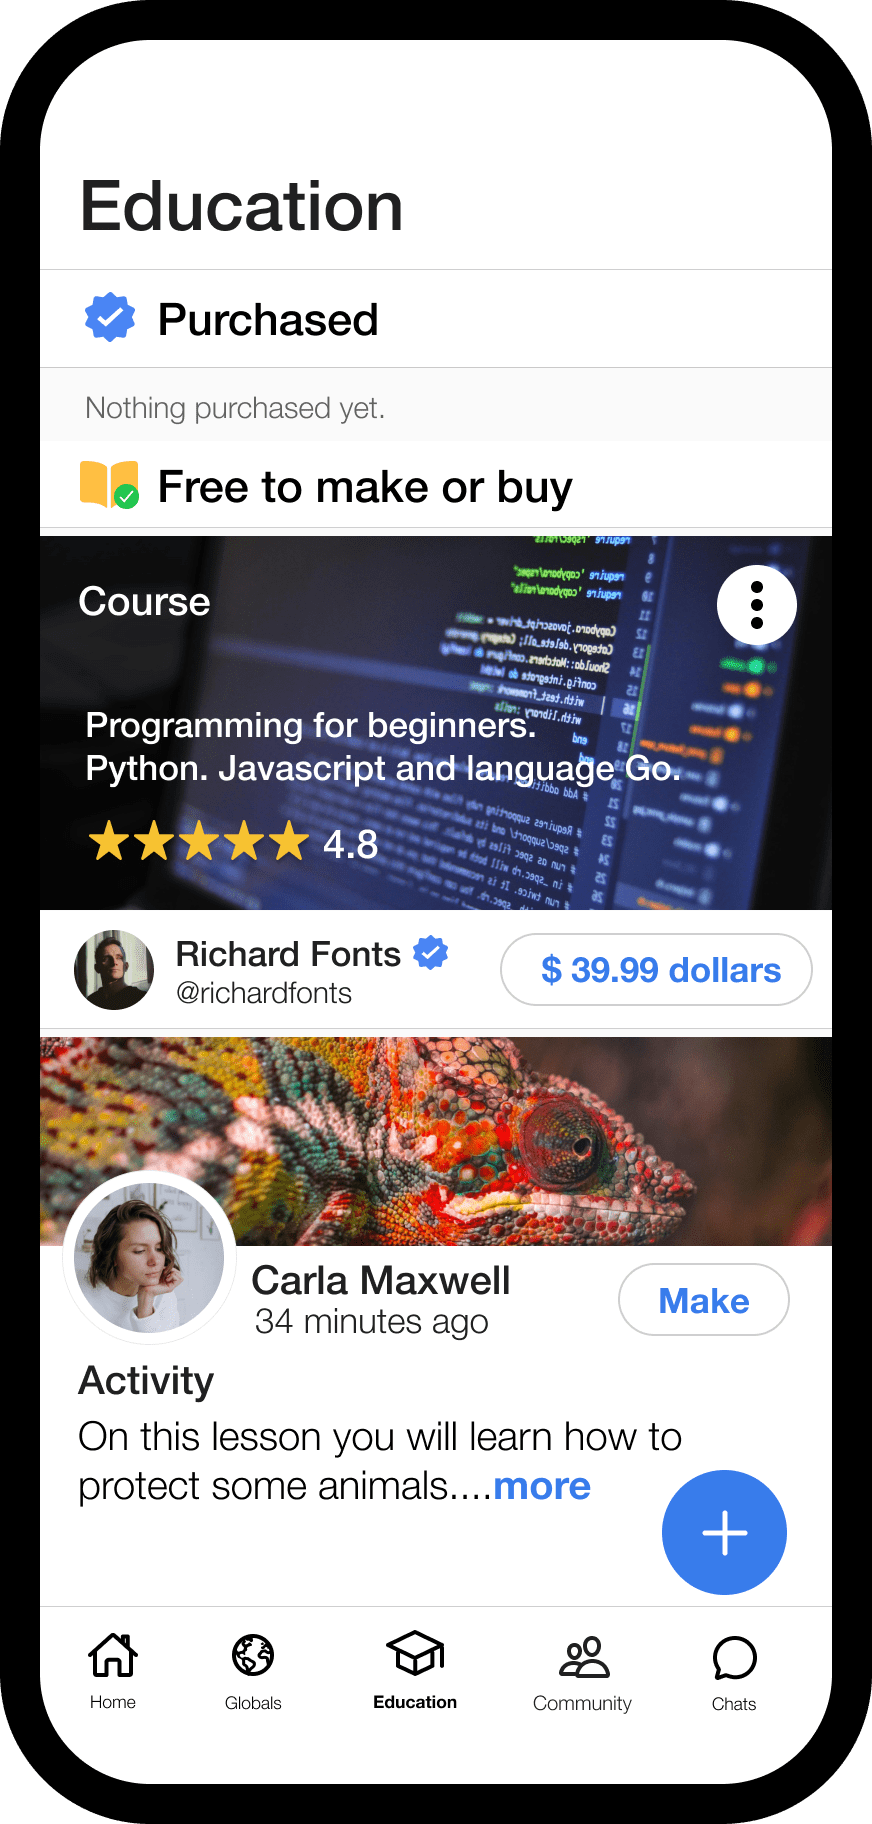
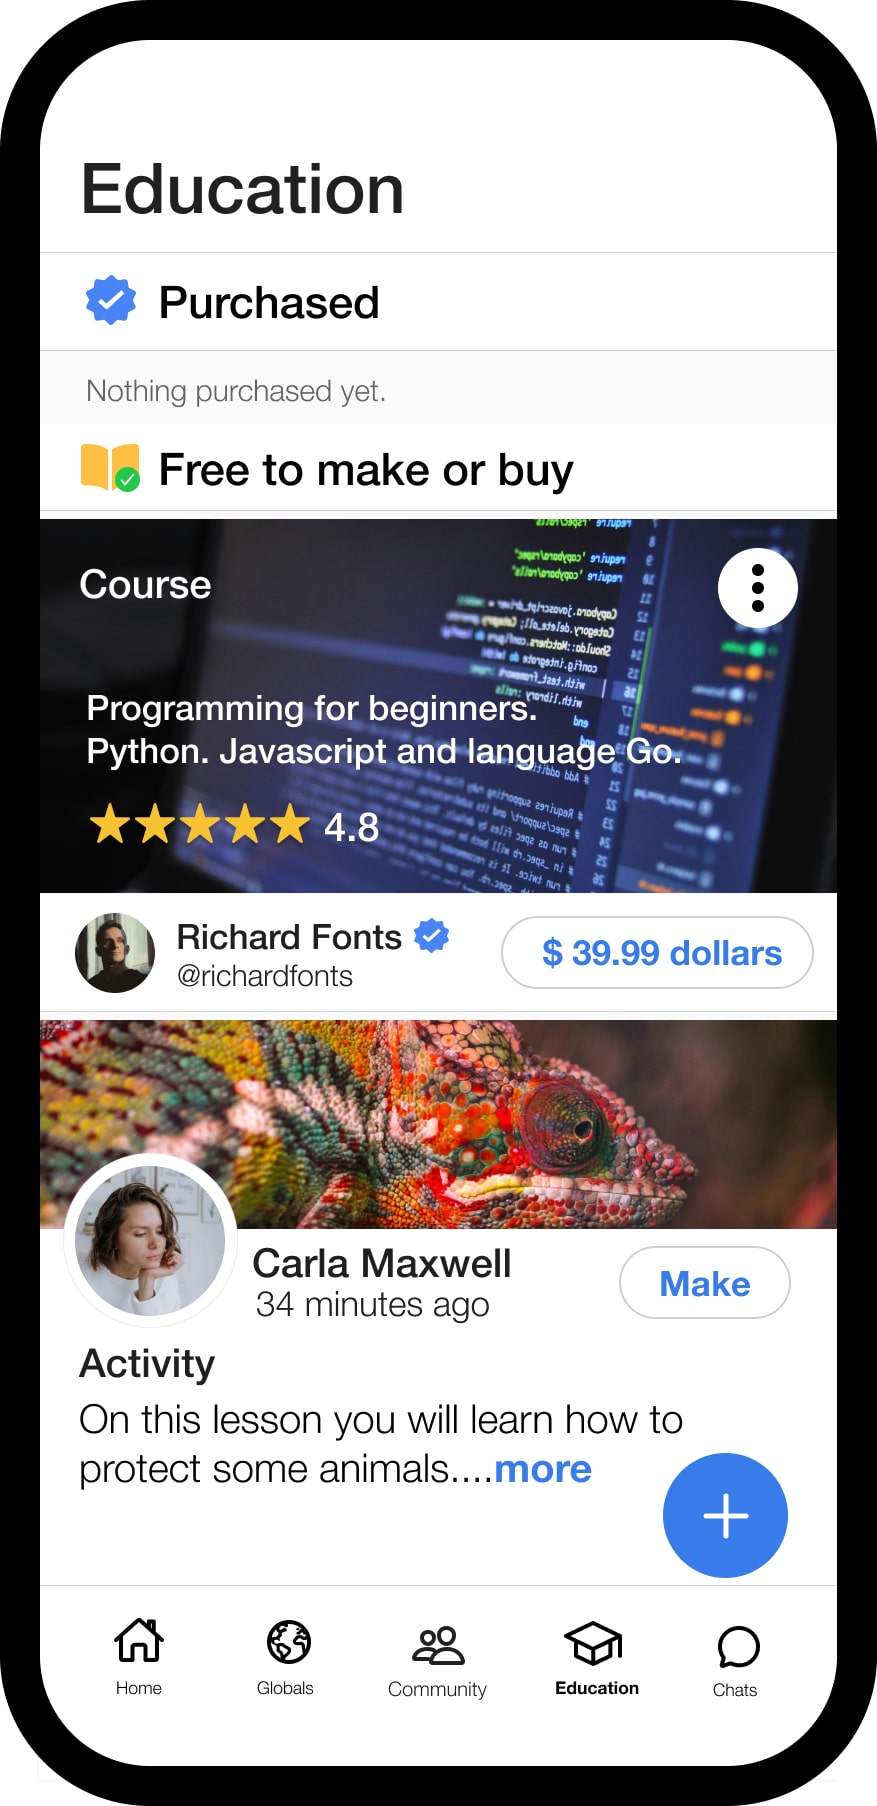
Add files via upload

diff --git a/flutter_service_worker.js b/flutter_service_worker.js
@@ -3,7 +3,7 @@ const MANIFEST = 'flutter-app-manifest';
 const TEMP = 'flutter-temp-cache';
 const CACHE_NAME = 'flutter-app-cache';
 
-const RESOURCES = {"flutter_bootstrap.js": "bb6dc6b4c6077f689bde5183ec9e2807",
+const RESOURCES = {"flutter_bootstrap.js": "ce28a981a0260f02a40396481b7d5af3",
 "version.json": "980547175e325fe622a3362b84d55b6a",
 "splash/img/light-2x.png": "2c4bf06c6778609766be99fd33b14276",
 "splash/img/dark-4x.png": "4d2b71c867ab3c5d026e21de557e156b",
@@ -42,13 +42,13 @@ const RESOURCES = {"flutter_bootstrap.js": "bb6dc6b4c6077f689bde5183ec9e2807",
 "assets/assets/sounds/done.mp3": "7a3389aa036b9739d6a74dcba348c76e",
 "assets/assets/sounds/end.mp3": "4006227c8c6aa82ac1c9a418ff912c2d",
 "assets/assets/photos/image8.jpg": "2d9a87355c91b1998e5203bb78a011d3",
-"assets/assets/photos/image9.jpg": "d1d705aed346542c56545dcfbb77bc90",
+"assets/assets/photos/image9.jpg": "df161cbfb38890a8e2ff09c8ea70d3da",
 "assets/assets/photos/image7.jpg": "ddae1eac15980b6b17f12bfeaae9f8e3",
 "assets/assets/photos/image6.jpg": "b5b518abbe8d27e365915e105494741a",
-"assets/assets/photos/image4.jpg": "0300c7bbea5ea9fb1aa615833d762909",
+"assets/assets/photos/image4.jpg": "d6d2b5c43719f01564a5dacc815c9a8a",
 "assets/assets/photos/image5.jpg": "b82a77b29008691484a0afd9414fda74",
 "assets/assets/photos/image1.jpg": "0aebf14983f62f27ed0abee09a7fd5bf",
-"assets/assets/photos/image2.jpg": "048fc5e7ffbd891523c8497bf20ea312",
+"assets/assets/photos/image2.jpg": "8c05fb5f5aac0c7a52f698f5cd39fd8b",
 "assets/assets/photos/image3.jpg": "2a5c0f5243f4f92039fd355803b4ef5f",
 "assets/assets/fonts/HelveticaNeue/HelveticaNeueLight.ttf": "0facaae97183b8fede52099930aefd8d",
 "assets/assets/fonts/HelveticaNeue/HelveticaNeueUltraLight.ttf": "ccad04d46768981ff847f22e8a53b5b3",

diff --git a/flutter_bootstrap.js b/flutter_bootstrap.js
@@ -11,6 +11,6 @@ _flutter.buildConfig = {"engineRevision":"82bd5b7209295a5b7ff8cae0df96e7870171e3
 
 _flutter.loader.load({
   serviceWorkerSettings: {
-    serviceWorkerVersion: "3516154438"
+    serviceWorkerVersion: "3664278919"
   }
 });
